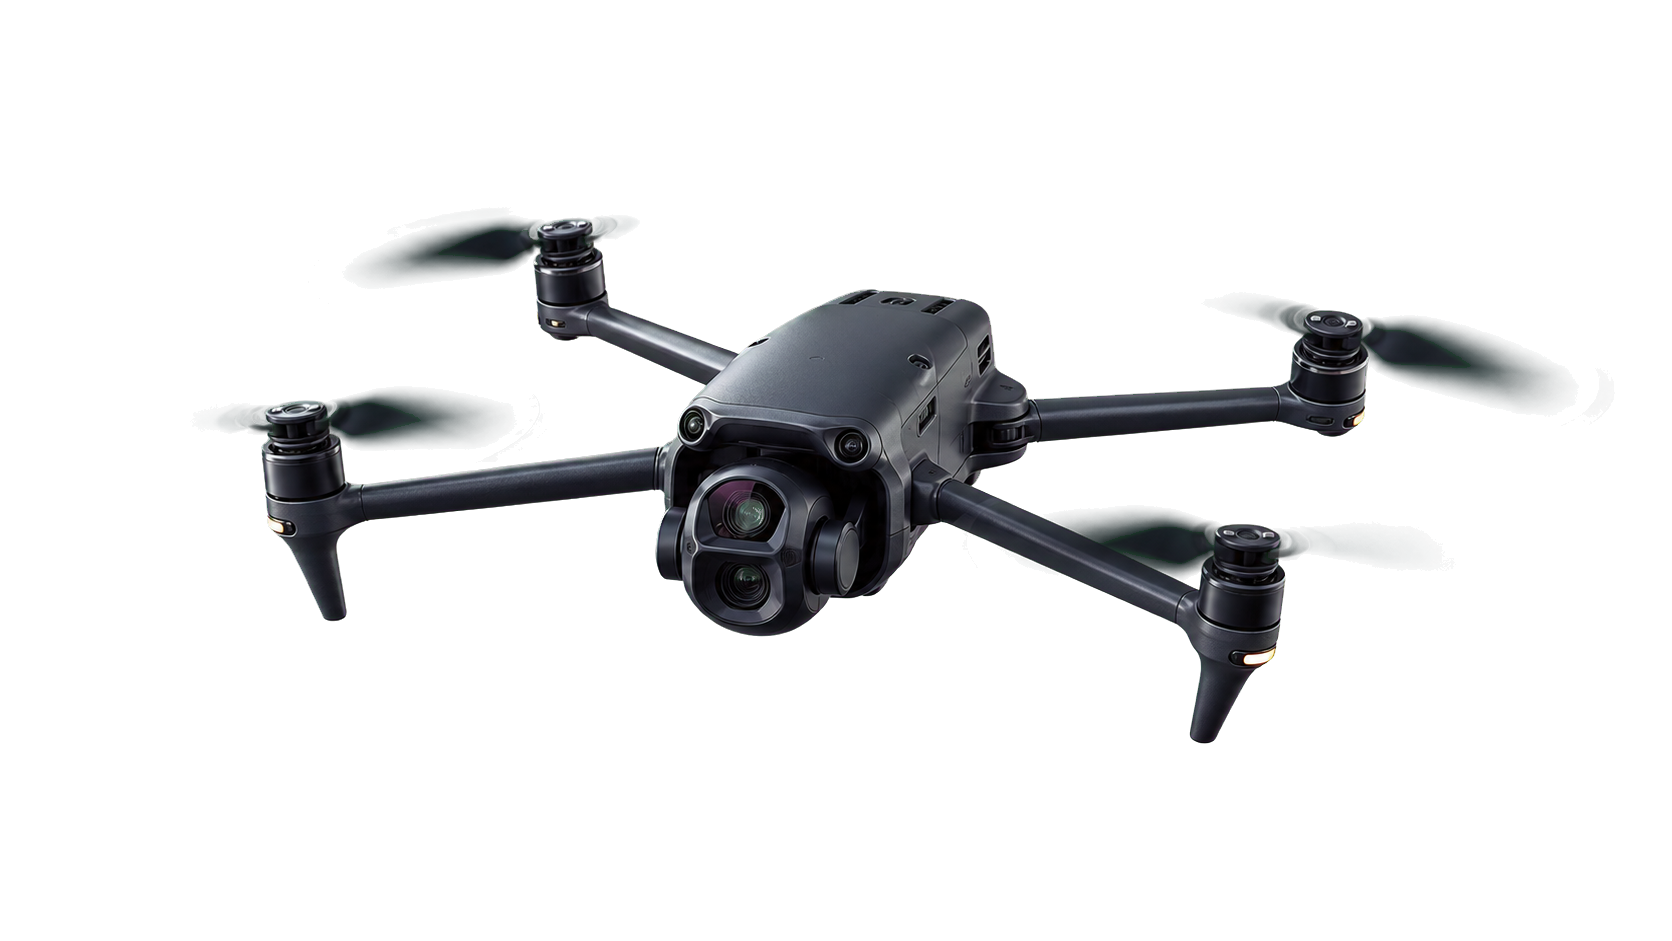
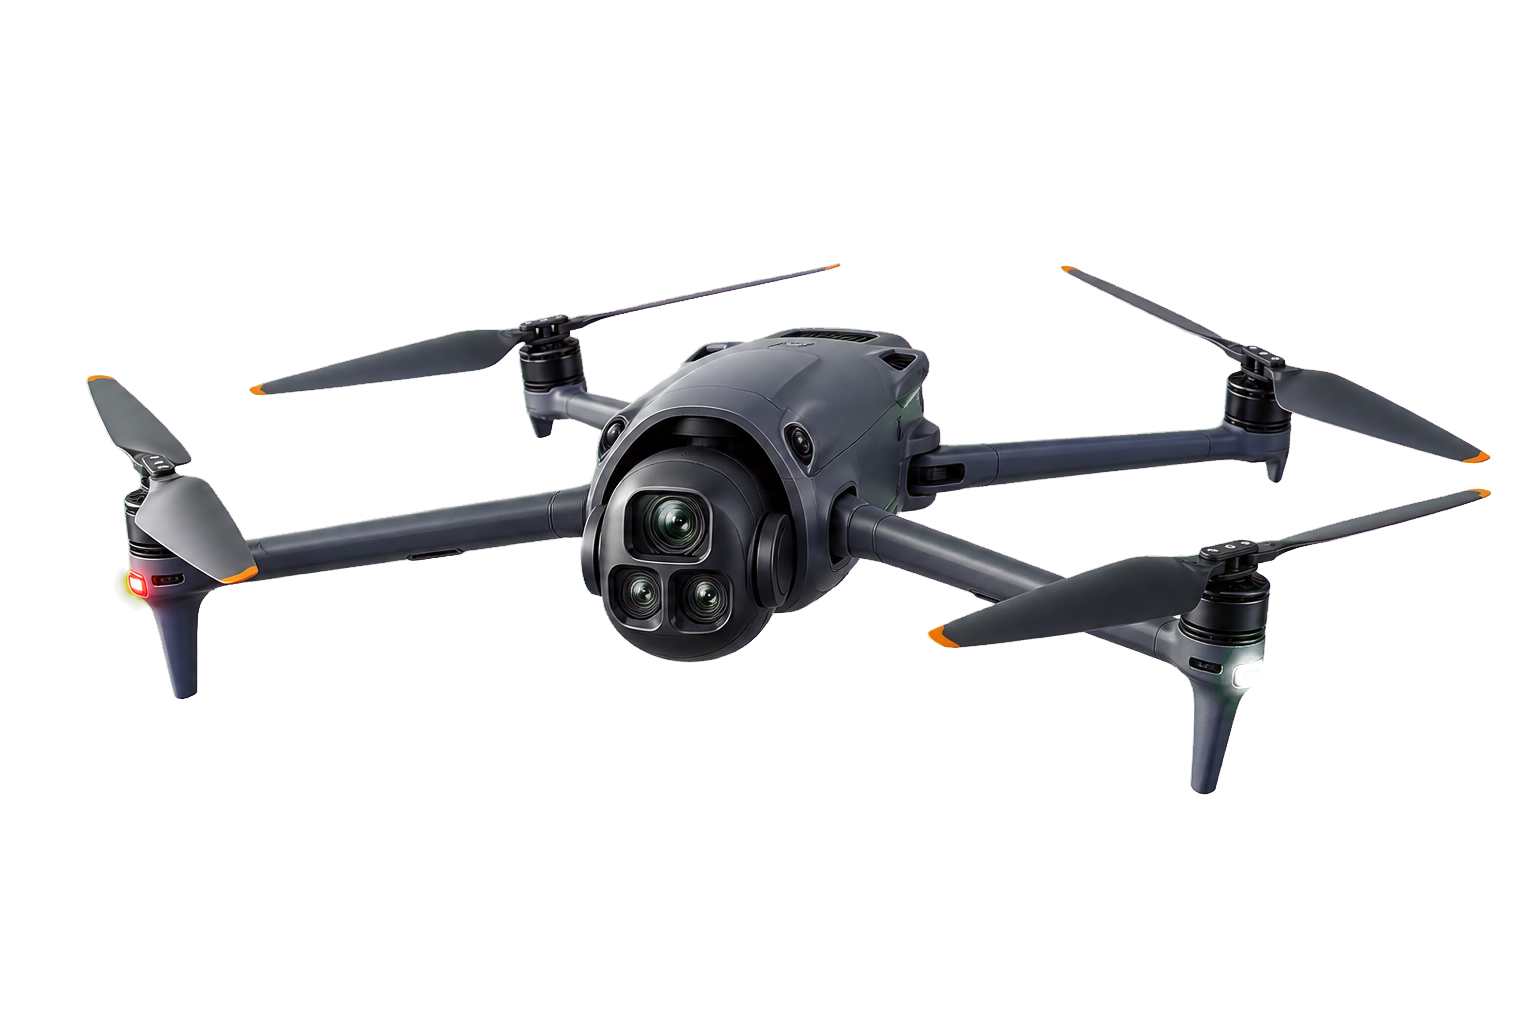
Refine drone hero and clean repository

Changed region(s): [[0.0312, 0.2157, 0.9688, 0.8013], [0.6875, 0.2465, 0.7188, 0.2774], [0.5, 0.2465, 0.5312, 0.2774]]

diff --git a/style.css b/style.css
@@ -103,10 +103,18 @@ img {
 .button,
 .link-grid a {
   backdrop-filter: blur(20px) saturate(160%);
-  background: linear-gradient(135deg, var(--glass), rgba(255, 255, 255, 0.04));
+  background:
+    linear-gradient(145deg, rgba(255, 255, 255, 0.34) 0%, rgba(183, 239, 255, 0.2) 18%, rgba(72, 154, 180, 0.16) 48%, rgba(255, 255, 255, 0.12) 100%),
+    linear-gradient(315deg, rgba(25, 97, 126, 0.3), rgba(255, 255, 255, 0.08));
   border: 1px solid var(--stroke);
   border-radius: var(--radius);
-  box-shadow: inset 0 1px rgba(255, 255, 255, 0.3), 0 14px 36px rgba(0, 0, 0, 0.22);
+  box-shadow:
+    inset 0 2px 1px rgba(255, 255, 255, 0.58),
+    inset 0 -10px 18px rgba(10, 54, 74, 0.36),
+    inset 10px 0 24px rgba(125, 232, 255, 0.12),
+    0 8px 0 rgba(7, 29, 42, 0.58),
+    0 24px 46px rgba(0, 0, 0, 0.28);
+  position: relative;
 }
 
 .topnav a {
@@ -114,6 +122,7 @@ img {
   font-size: 0.88rem;
   font-weight: 700;
   letter-spacing: 0;
+  overflow: hidden;
   padding: 0.65rem 0.85rem;
   text-decoration: none;
 }
@@ -122,7 +131,9 @@ img {
 .topnav a:focus-visible,
 .link-grid a:hover,
 .link-grid a:focus-visible {
-  background: linear-gradient(135deg, var(--glass-strong), rgba(125, 232, 255, 0.11));
+  background:
+    linear-gradient(145deg, rgba(255, 255, 255, 0.46) 0%, rgba(183, 239, 255, 0.28) 18%, rgba(83, 178, 207, 0.22) 48%, rgba(255, 255, 255, 0.18) 100%),
+    linear-gradient(315deg, rgba(25, 97, 126, 0.34), rgba(255, 255, 255, 0.1));
   color: #fff;
   outline: none;
   transform: translateY(-2px);
@@ -138,6 +149,7 @@ img {
   font-weight: 800;
   gap: 0.55rem;
   min-height: 2.7rem;
+  overflow: hidden;
   padding: 0.65rem 0.9rem;
 }
 
@@ -305,13 +317,43 @@ h2 {
   font-weight: 800;
   gap: 0.65rem;
   min-height: 3.25rem;
+  overflow: hidden;
   padding: 0.9rem 1.1rem;
   text-decoration: none;
-  transition: transform 0.25s ease, background 0.25s ease;
+  transition: transform 0.25s ease, background 0.25s ease, box-shadow 0.25s ease;
+}
+
+.button::before,
+.topnav a::before,
+.sound-toggle::before,
+.link-grid a::before {
+  background:
+    linear-gradient(100deg, transparent 0%, rgba(255, 255, 255, 0.45) 42%, transparent 72%),
+    linear-gradient(180deg, rgba(255, 255, 255, 0.28), transparent 42%);
+  content: "";
+  inset: 1px;
+  opacity: 0.5;
+  pointer-events: none;
+  position: absolute;
+  transform: translateX(-115%);
+}
+
+.button::after,
+.topnav a::after,
+.sound-toggle::after,
+.link-grid a::after {
+  border-bottom: 1px solid rgba(18, 70, 92, 0.58);
+  border-right: 1px solid rgba(18, 70, 92, 0.42);
+  content: "";
+  inset: 0;
+  pointer-events: none;
+  position: absolute;
 }
 
 .button-primary {
-  background: linear-gradient(135deg, rgba(125, 232, 255, 0.32), rgba(97, 214, 202, 0.18));
+  background:
+    linear-gradient(145deg, rgba(238, 254, 255, 0.44), rgba(112, 220, 232, 0.34) 42%, rgba(42, 116, 145, 0.25)),
+    linear-gradient(315deg, rgba(94, 225, 207, 0.32), rgba(255, 255, 255, 0.08));
 }
 
 .button-secondary {
@@ -321,10 +363,16 @@ h2 {
 .button:hover,
 .button:focus-visible {
   outline: none;
-  transform: translateY(-2px);
+  box-shadow:
+    inset 0 2px 1px rgba(255, 255, 255, 0.66),
+    inset 0 -10px 18px rgba(10, 54, 74, 0.32),
+    inset 10px 0 24px rgba(125, 232, 255, 0.18),
+    0 5px 0 rgba(7, 29, 42, 0.56),
+    0 26px 52px rgba(0, 0, 0, 0.32);
+  transform: translateY(-3px);
 }
 
-.hero-drone {
+.hero-drone-wrap {
   animation: droneFlight 9s ease-in-out infinite;
   bottom: clamp(13rem, 16vh, 18rem);
   filter: drop-shadow(0 28px 30px rgba(0, 0, 0, 0.48)) drop-shadow(0 0 30px rgba(125, 232, 255, 0.16));
@@ -335,6 +383,36 @@ h2 {
   transform-origin: center;
   width: 58rem;
   z-index: 2;
+}
+
+.hero-drone {
+  height: auto;
+  width: 100%;
+}
+
+.nav-light {
+  animation: navPulse 1.25s ease-in-out infinite;
+  border-radius: 999px;
+  display: block;
+  height: clamp(0.45rem, 1.1vw, 0.85rem);
+  pointer-events: none;
+  position: absolute;
+  width: clamp(0.45rem, 1.1vw, 0.85rem);
+}
+
+.nav-light-red {
+  background: #ff2638;
+  box-shadow: 0 0 10px #ff2638, 0 0 24px rgba(255, 38, 56, 0.9), 0 0 44px rgba(255, 38, 56, 0.58);
+  left: 3.9%;
+  top: 56.5%;
+}
+
+.nav-light-green {
+  animation-delay: 0.55s;
+  background: #52ffb4;
+  box-shadow: 0 0 10px #52ffb4, 0 0 24px rgba(82, 255, 180, 0.9), 0 0 44px rgba(82, 255, 180, 0.58);
+  right: 4.7%;
+  top: 61.2%;
 }
 
 .hero-panel {
@@ -402,7 +480,10 @@ h2 {
 }
 
 body.ice-active .ice-glass::before,
-body.ice-active .link-grid a::before {
+body.ice-active .link-grid a::before,
+body.ice-active .button::before,
+body.ice-active .topnav a::before,
+body.ice-active .sound-toggle::before {
   animation: iceShimmer 3.4s ease-in-out infinite;
 }
 
@@ -542,15 +623,6 @@ body.ice-active .link-grid a::before {
   transition: transform 0.25s ease, background 0.25s ease;
 }
 
-.link-grid a::before {
-  background: linear-gradient(100deg, transparent 0%, rgba(255, 255, 255, 0.22) 45%, transparent 82%);
-  content: "";
-  inset: 0;
-  opacity: 0.28;
-  position: absolute;
-  transform: translateX(-110%);
-}
-
 .link-grid i {
   align-items: center;
   background: rgba(255, 255, 255, 0.1);
@@ -653,6 +725,18 @@ body.ice-active .link-grid a::before {
   }
 }
 
+@keyframes navPulse {
+  0%,
+  100% {
+    opacity: 0.38;
+    transform: scale(0.72);
+  }
+  45% {
+    opacity: 1;
+    transform: scale(1.28);
+  }
+}
+
 @media (max-width: 980px) {
   .topbar {
     grid-template-columns: auto auto;
@@ -670,7 +754,7 @@ body.ice-active .link-grid a::before {
     padding-top: 11rem;
   }
 
-  .hero-drone {
+  .hero-drone-wrap {
     bottom: 9rem;
     max-width: 88vw;
     opacity: 0.9;
@@ -734,12 +818,12 @@ body.ice-active .link-grid a::before {
     justify-content: center;
   }
 
-  .hero-drone {
-    bottom: 10.5rem;
+  .hero-drone-wrap {
+    bottom: 13.5rem;
     max-width: none;
-    opacity: 0.72;
-    right: -12rem;
-    width: 34rem;
+    opacity: 0.68;
+    right: -5rem;
+    width: 29rem;
     z-index: 1;
   }
 

diff --git a/index.html b/index.html
@@ -3,7 +3,7 @@
   <head>
     <meta charset="UTF-8" />
     <meta name="author" content="Colin Dixon BSc, DipEd, Cert IV TAE" />
-    <meta name="version" content="26.06.003" />
+    <meta name="version" content="26.06.004" />
     <meta name="timestamp" content="14/06/2026 12:52 PM AEST (Mallacoota)" />
     <meta name="viewport" content="width=device-width, initial-scale=1.0" />
 
@@ -89,7 +89,7 @@
       rel="stylesheet"
       href="https://cdnjs.cloudflare.com/ajax/libs/font-awesome/6.5.2/css/all.min.css"
     />
-    <link rel="stylesheet" href="style.css?v=26.06.003" />
+    <link rel="stylesheet" href="style.css?v=26.06.004" />
   </head>
 
   <body>
@@ -129,11 +129,11 @@
             <span></span>
             <span></span>
           </div>
-          <img
-            class="hero-drone"
-            src="images/mavic-4-pro-cutout.png"
-            alt="Flying DJI Mavic 4 Pro style drone"
-          />
+          <div class="hero-drone-wrap" role="img" aria-label="Flying DJI Mavic 4 Pro style drone">
+            <img class="hero-drone" src="images/mavic-4-pro-cutout.png" alt="" />
+            <span class="nav-light nav-light-red" aria-hidden="true"></span>
+            <span class="nav-light nav-light-green" aria-hidden="true"></span>
+          </div>
 
           <div class="hero-content is-visible">
             <p class="eyebrow">Mallacoota aerial art / AI media / 360 worlds</p>
@@ -313,6 +313,6 @@
       </footer>
     </div>
 
-    <script src="script.js?v=26.06.003" defer></script>
+    <script src="script.js?v=26.06.004" defer></script>
   </body>
 </html>